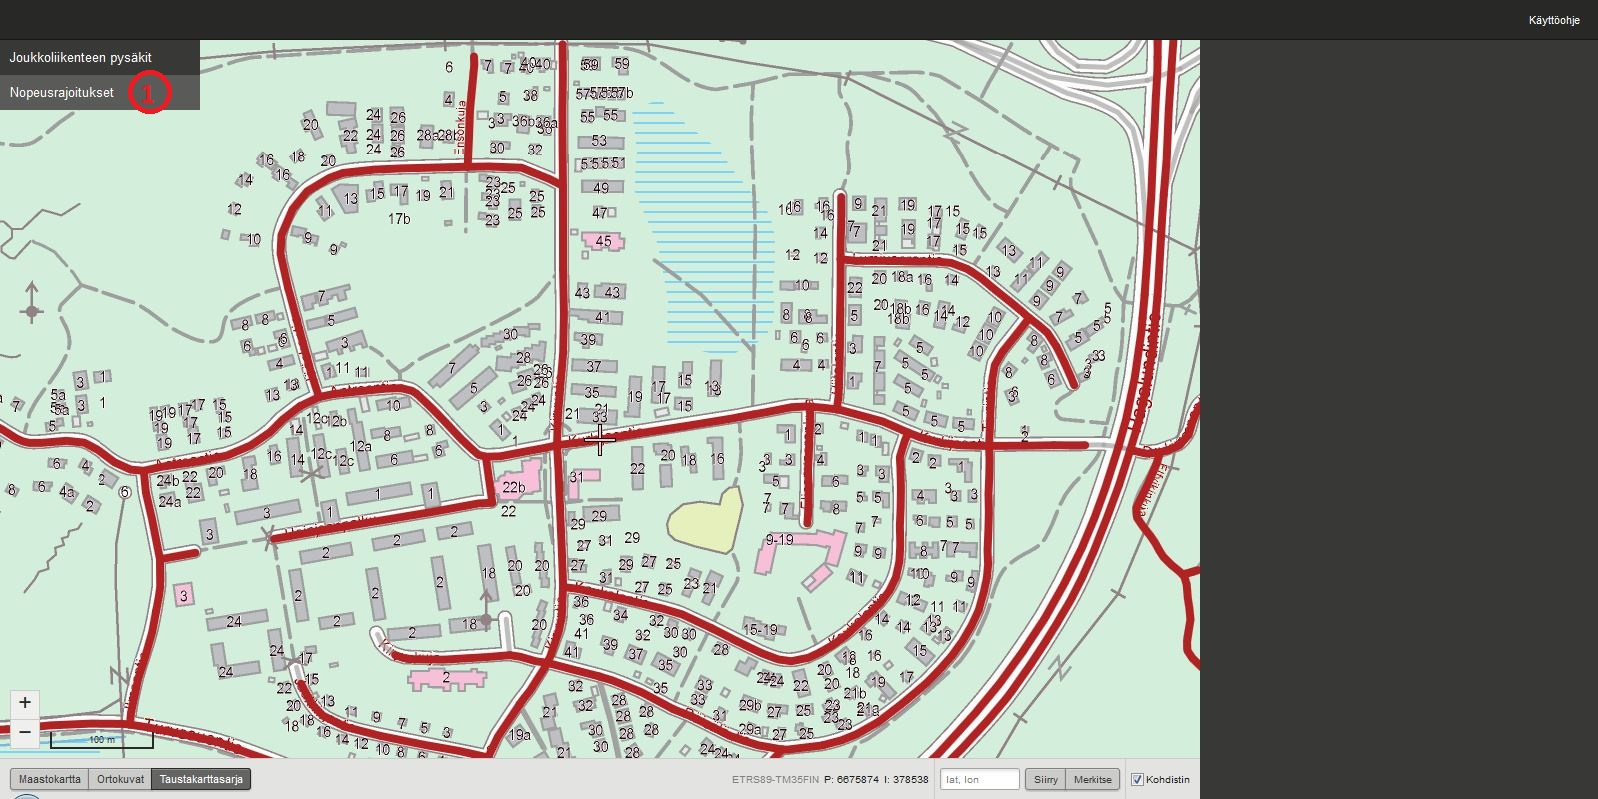
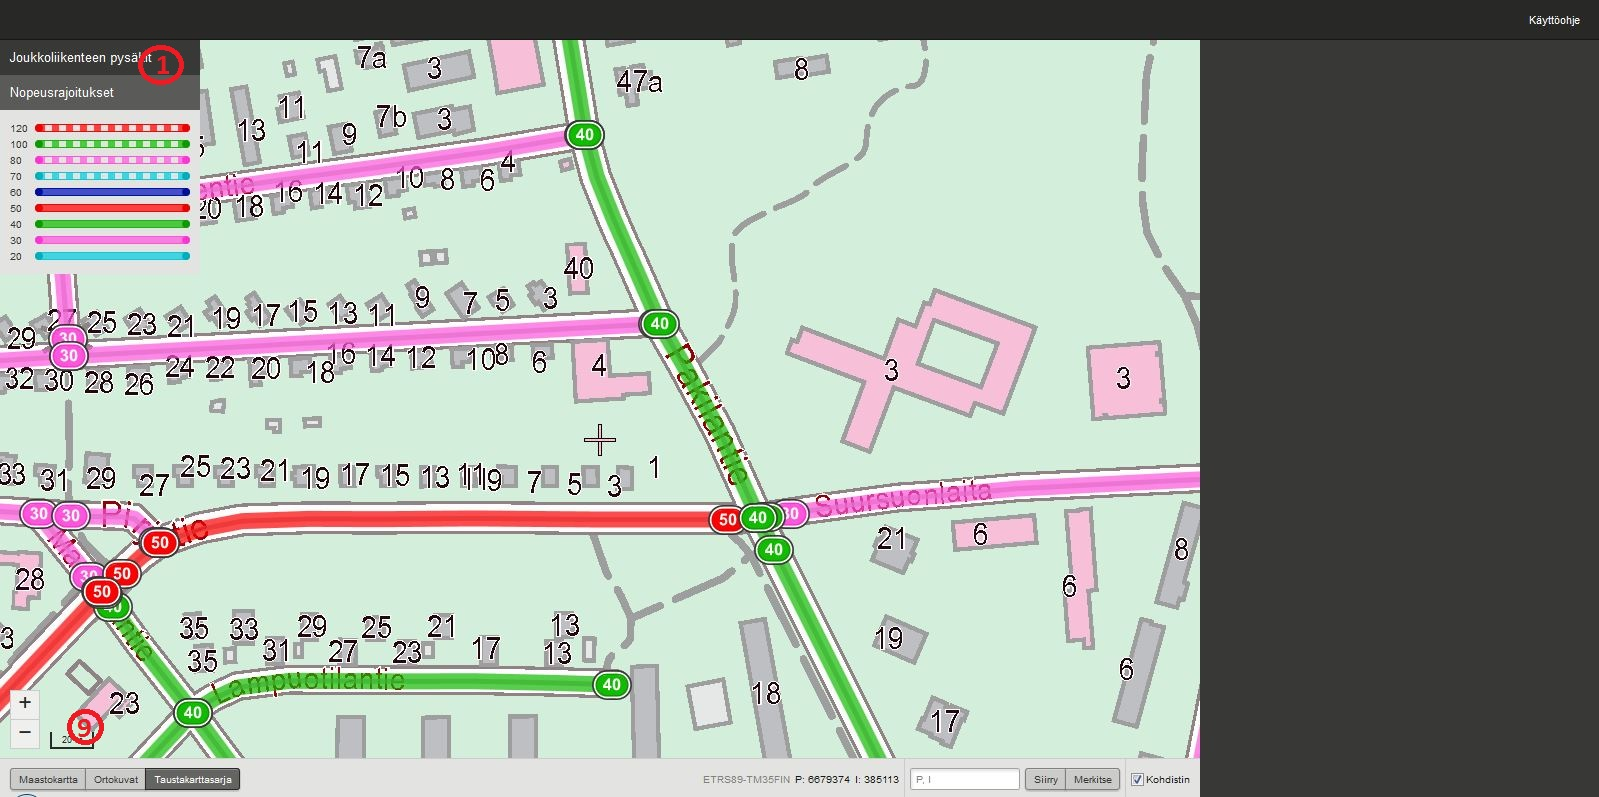
add speed limits to manual

diff --git a/UI/manual/index.md b/UI/manual/index.md
@@ -167,7 +167,7 @@ _Joukkoliikenteen pys&auml;kkien haku._
 3.4 Nopeusrajoitusten valinta
 -----------------------------
 
-Karttan&auml;kym&auml;&auml;n voi valita nopeusrajoitukset valitsemalla tietolajit-paletista (1) Nopeusrajoitukset. Nopeusrajoitukset n&auml;kyv&auml;t, kun kartan mittakaavataso on 1:20 000 tai tarkempi (9). Nopeusrajoitukset on visualisoitu purpuran punaisella v&auml;rill&auml; tielinkeille.
+Karttan&auml;kym&auml;&auml;n voi valita nopeusrajoitukset valitsemalla tietolajit-paletista (1) Nopeusrajoitukset. Nopeusrajoitukset n&auml;kyv&auml;t, kun kartan mittakaavataso on 1:20 000 tai tarkempi (9). Karttaa tarkennettaessa nopeusrajoitukset paksuuntuvat, jotta niiden erottaminen on helpompaa. Nopeusrajoituksilla on nopeusrajoitusl&auml;tk&auml;, joka kertoo nopeusrajoituksen arvon ja linkit on visualisoitu eri v&auml;rein nopeusrajoituksen arvon mukaan. V&auml;rikoodien selitteet n&auml;kyv&auml;t Nopeusrajoitukset-valinnan alla, kun valitsee Nopeusrajoitukset.
 
 ![Nopeusrajoitusten valinta](k18.jpg)
 
@@ -276,7 +276,7 @@ Ominaisuustietokent&auml;t ovat tekstikentti&auml;, joihin ominaisuustieto kirjo
 
 __Nimi suomeksi:__ Pys&auml;kin nimi suomen kielell&auml;. Nimen tulee olla valtakunnallisesti yksil&ouml;iv&auml;. Esim. Ei "Linja-autoasema" vaan "Porvoon linja-autoasema".
 __Nimi ruotsiksi:__ Pys&auml;kin nimi ruotsin kielell&auml;. 
-__Tietojen yll&auml;pit&auml;j&auml;:__ Yll&auml;pit&auml;v&auml; viranomainen: kunta, Helsingin seudun liikenne, ELY-keskus tai Liikennevirasto.
+__Tietojen yll&auml;pit&auml;j&auml;:__ Yll&auml;pit&auml;v&auml; viranomainen: kunta, Helsingin seudun liikenne tai ELY-keskus.
 __Yll&auml;pit&auml;j&auml;n tunnus:__ Tietojen yll&auml;pit&auml;j&auml;n sis&auml;inen tunnus pys&auml;kille.
 __LIVI-tunnus:__ Pys&auml;kin Livi-tunniste, vastaava tunnus kuin Tierekisteriss&auml;. K&auml;yt&ouml;ss&auml; vain maanteiden pys&auml;keill&auml;.
 __Matkustajatunnus:__ Pys&auml;kin tunnus, joka n&auml;kyy matkustajalle.
